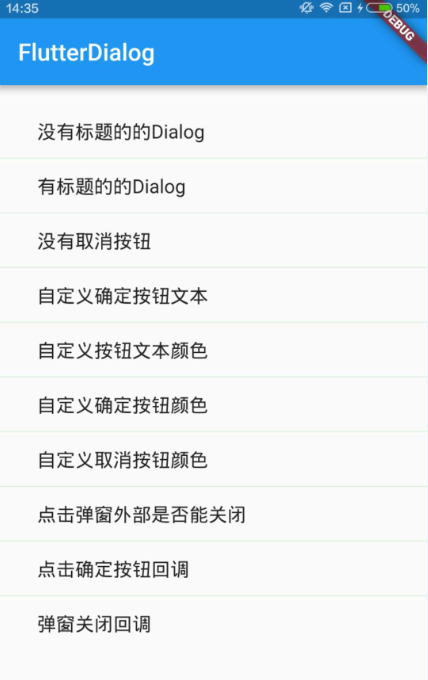
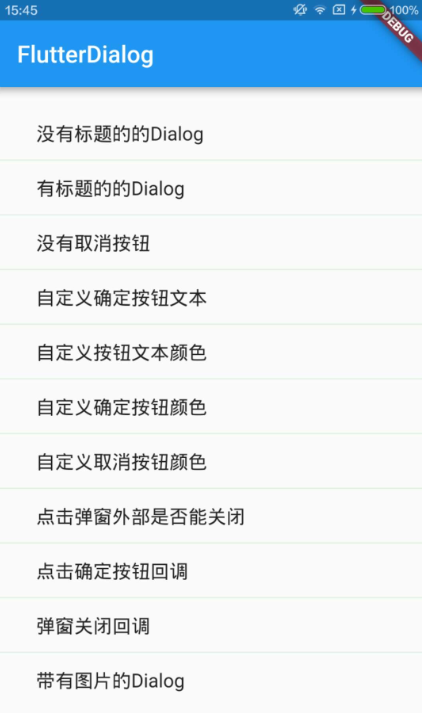
新增带图片的dialog

diff --git a/lib/CustomDialog.dart b/lib/CustomDialog.dart
@@ -3,6 +3,7 @@ import 'package:flutter/material.dart';
 ///自定义Dialog
 class CustomDialog extends StatefulWidget {
 
+  //------------------不带图片的dialog------------------------
   final String title; //弹窗标题
   final String content; //弹窗内容
   final String confirmContent; //按钮文本
@@ -14,7 +15,11 @@ class CustomDialog extends StatefulWidget {
   final Function confirmCallback; //点击确定按钮回调
   final Function dismissCallback; //弹窗关闭回调
 
-  const CustomDialog({Key key, this.title, this.content, this.confirmContent, this.confirmTextColor, this.isCancel = true, this.confirmColor, this.cancelColor, this.outsideDismiss = true, this.confirmCallback, this.dismissCallback}) : super(key: key);
+  //------------------带图片的dialog------------------------
+  final String image;//dialog添加图片
+  final String imageHintText; //图片下方的文本提示
+
+  const CustomDialog({Key key, this.title, this.content, this.confirmContent, this.confirmTextColor, this.isCancel = true, this.confirmColor, this.cancelColor, this.outsideDismiss = true, this.confirmCallback, this.dismissCallback, this.image, this.imageHintText}) : super(key: key);
 
   @override
   State<StatefulWidget> createState() {
@@ -42,6 +47,103 @@ class _CustomDialogState extends State<CustomDialog> {
   Widget build(BuildContext context) {
     final size = MediaQuery.of(context).size;
     final width = size.width;
+
+    Column _columnText = Column(
+      children: <Widget>[
+        SizedBox(
+            height: widget.title == null ? 0 : 16.0
+        ),
+        Text(
+            widget.title == null ? '' : widget.title,
+            style: TextStyle(fontSize: 16.0)
+        ),
+        Expanded(
+            child: Center(
+              child: Text(
+                  widget.content == null ? '' : widget.content,
+                  style: TextStyle(fontSize: 14.0)
+              ),
+            ),
+            flex: 1
+        ),
+        SizedBox(
+            height: 1.0,
+            child: Container(color: Color(0xDBDBDBDB))
+        ),
+        Container(
+            height: 45,
+            child: Row(
+              children: <Widget>[
+                Expanded(
+                    child: widget.isCancel ? Container(
+                      decoration: BoxDecoration(
+                          color: widget.cancelColor == null ? Color(0xFFFFFFFF) : widget.cancelColor,
+                          borderRadius: BorderRadius.only(bottomLeft: Radius.circular(12.0))
+                      ),
+                      child: FlatButton(
+                        child: Text(
+                            '取消',
+                            style: TextStyle(
+                              fontSize: 16.0,
+                              color: widget.cancelColor == null ? Colors.black87 : Color(0xFFFFFFFF),
+                            )
+                        ),
+                        onPressed: _dismissDialog,
+                        splashColor: widget.cancelColor == null ? Color(0xFFFFFFFF) : widget.cancelColor,
+                        highlightColor: widget.cancelColor == null ? Color(0xFFFFFFFF) : widget.cancelColor,
+                      ),
+                    ) : Text(''),
+                    flex: widget.isCancel ? 1 : 0
+                ),
+                SizedBox(width: widget.isCancel ? 1.0 : 0,child: Container(color: Color(0xDBDBDBDB))),
+                Expanded(
+                    child: Container(
+                      decoration: BoxDecoration(
+                          color: widget.confirmColor == null ? Color(0xFFFFFFFF) : widget.confirmColor,
+                          borderRadius: widget.isCancel ? BorderRadius.only(bottomRight: Radius.circular(12.0)) : BorderRadius.only(bottomLeft: Radius.circular(12.0), bottomRight: Radius.circular(12.0))
+                      ),
+                      child: FlatButton(
+                        onPressed: _confirmDialog,
+                        child: Text(
+                            widget.confirmContent == null ? '确定' : widget.confirmContent,
+                            style: TextStyle(
+                              fontSize: 16.0,
+                              color: widget.confirmColor == null ? (widget.confirmTextColor == null ? Colors.black87 : widget.confirmTextColor) : Color(0xFFFFFFFF),
+                            )
+                        ),
+                        splashColor: widget.confirmColor == null ? Color(0xFFFFFFFF) : widget.confirmColor,
+                        highlightColor: widget.confirmColor == null ? Color(0xFFFFFFFF) : widget.confirmColor,
+                      ),
+                    ),
+                    flex: 1
+                ),
+              ],
+            )
+        )
+      ],
+    );
+
+    Column _columnImage = Column(
+      children: <Widget>[
+        SizedBox(
+          height: widget.imageHintText == null ? 35.0 : 23.0,
+        ),
+        Image(
+          image: AssetImage(widget.image == null ? '' : widget.image),
+          width: 72.0,
+          height: 72.0
+        ),
+        SizedBox(
+            height: 10.0
+        ),
+        Text(
+            widget.imageHintText == null ? "" : widget.imageHintText,
+            style: TextStyle(fontSize: 16.0)
+        ),
+      ],
+    );
+
+
     return WillPopScope(
       child: GestureDetector(
         onTap: () => {
@@ -51,83 +153,10 @@ class _CustomDialogState extends State<CustomDialog> {
           type: MaterialType.transparency,
           child: Center(
             child: Container(
-              width: width - 100.0,
+              width: widget.image == null ? width - 100.0 : width - 150.0,
               height: 150.0,
               alignment: Alignment.center,
-              child: Column(
-                children: <Widget>[
-                  SizedBox(
-                      height: widget.title == null ? 0 : 16.0
-                  ),
-                  Text(
-                      widget.title == null ? '' : widget.title,
-                      style: TextStyle(fontSize: 16.0)
-                  ),
-                  Expanded(
-                      child: Center(
-                        child: Text(
-                            widget.content == null ? '' : widget.content,
-                            style: TextStyle(fontSize: 14.0)
-                        ),
-                      ),
-                      flex: 1
-                  ),
-                  SizedBox(
-                      height: 1.0,
-                      child: Container(color: Color(0xDBDBDBDB))
-                  ),
-                  Container(
-                      height: 45,
-                      child: Row(
-                        children: <Widget>[
-                          Expanded(
-                              child: widget.isCancel ? Container(
-                                decoration: BoxDecoration(
-                                    color: widget.cancelColor == null ? Color(0xFFFFFFFF) : widget.cancelColor,
-                                    borderRadius: BorderRadius.only(bottomLeft: Radius.circular(12.0))
-                                ),
-                                child: FlatButton(
-                                  child: Text(
-                                      '取消',
-                                      style: TextStyle(
-                                        fontSize: 16.0,
-                                        color: widget.cancelColor == null ? Colors.black87 : Color(0xFFFFFFFF),
-                                      )
-                                  ),
-                                  onPressed: _dismissDialog,
-                                  splashColor: widget.cancelColor == null ? Color(0xFFFFFFFF) : widget.cancelColor,
-                                  highlightColor: widget.cancelColor == null ? Color(0xFFFFFFFF) : widget.cancelColor,
-                                ),
-                              ) : Text(''),
-                              flex: widget.isCancel ? 1 : 0
-                          ),
-                          SizedBox(width: widget.isCancel ? 1.0 : 0,child: Container(color: Color(0xDBDBDBDB))),
-                          Expanded(
-                              child: Container(
-                                decoration: BoxDecoration(
-                                    color: widget.confirmColor == null ? Color(0xFFFFFFFF) : widget.confirmColor,
-                                    borderRadius: widget.isCancel ? BorderRadius.only(bottomRight: Radius.circular(12.0)) : BorderRadius.only(bottomLeft: Radius.circular(12.0), bottomRight: Radius.circular(12.0))
-                                ),
-                                child: FlatButton(
-                                  onPressed: _confirmDialog,
-                                  child: Text(
-                                      widget.confirmContent == null ? '确定' : widget.confirmContent,
-                                      style: TextStyle(
-                                        fontSize: 16.0,
-                                        color: widget.confirmColor == null ? (widget.confirmTextColor == null ? Colors.black87 : widget.confirmTextColor) : Color(0xFFFFFFFF),
-                                      )
-                                  ),
-                                  splashColor: widget.confirmColor == null ? Color(0xFFFFFFFF) : widget.confirmColor,
-                                  highlightColor: widget.confirmColor == null ? Color(0xFFFFFFFF) : widget.confirmColor,
-                                ),
-                              ),
-                              flex: 1
-                          ),
-                        ],
-                      )
-                  )
-                ],
-              ),
+              child: widget.image == null ? _columnText : _columnImage,
               decoration: BoxDecoration(
                   color: Color(0xFFFFFFFF),
                   borderRadius: BorderRadius.circular(12.0)

diff --git a/lib/MyHomePage.dart b/lib/MyHomePage.dart
@@ -27,6 +27,7 @@ class _MyHomePageState extends State<MyHomePage> {
     listData.add('点击弹窗外部是否能关闭');
     listData.add('点击确定按钮回调');
     listData.add('弹窗关闭回调');
+    listData.add('带有图片的Dialog');
     setState(() {
     });
   }
@@ -96,6 +97,9 @@ class _MyHomePageState extends State<MyHomePage> {
         break;
       case 9:
         _showDialog10(module);
+        break;
+      case 10:
+        _showDialog11(module);
         break;
       default:
         break;
@@ -247,6 +251,19 @@ class _MyHomePageState extends State<MyHomePage> {
             },
           );
         }
+    );
+  }
+
+  void _showDialog11(String module) {
+    showDialog(
+      context: context,
+      barrierDismissible: false,
+      builder: (_) {
+        return CustomDialog(
+          image: './images/ic_success.png',
+          imageHintText: '数据加载成功'
+        );
+      }
     );
   }
 }

diff --git a/README.md b/README.md
@@ -1,5 +1,13 @@
 # flutter_dialog
 
+### 部分效果图
+
+![img](./show/f1.png)
+
+![img](./show/f2.png)  ![img](./show/f3.png)  ![img](./show/f5.png)
+
+![img](./show/f6.png)  ![img](./show/f7.png)  ![img](./show/f8.png)
+
 ### 参数说明
 |属性|说明|类型|默认值
 |---|---|---|---
@@ -46,6 +54,19 @@ showDialog(
   }
 );
 ```
+#### 带图片的Dialog
+```Dart
+showDialog(
+  context: context,
+  barrierDismissible: false,
+  builder: (_) {
+    return CustomDialog(
+      image: './images/ic_success.png',
+      imageHintText: '数据加载成功'
+    );
+  }
+);
+```
 #### Dialog按钮点击回调监听
 ```Dart
 showDialog(
@@ -62,6 +83,7 @@ showDialog(
   }
 );
 ```
+
 更多用例请查看项目中MyHomePage.dart文件。
 
 ### 部分效果图
@@ -77,3 +99,7 @@ showDialog(
 ![img](./show/f5.png)
 
 ![img](./show/f6.png)
+
+![img](./show/f7.png)
+
+![img](./show/f8.png)
